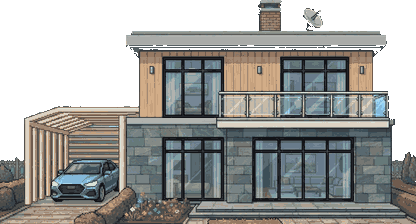
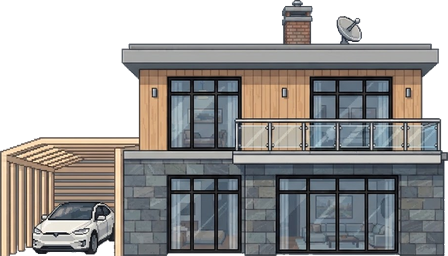
Дом: новый рисунок владельца (современный дом с навесом и машиной)
tools/import_house.py теперь режет art/_source/house_modern.jpg (тот же дом
на однородно-сером фоне) вместо старого house_rich.jpg со сценой сада. Фон
вычитается заливкой от всех четырёх краёв (как в import_move.py), а не
порогом синевы неба — на новом листе неба нет. Низ кадрируется по 95-му
перцентилю нижних кромок по столбцам, а не по самому глубокому пикселю: два
ближних столба навеса нарисованы чуть ниже общей линии земли, и обрезка по
ним оставляла бы машину «висящей» на пару пикселей. Уменьшение — через
import_art.py::shrink (премультиплированная альфа + LANCZOS + unsharp),
палитра больше не квантуется — рисунок и так чистый пиксель-арт, а
квантование смазывало стекло и тени. Вход пересчитан на правую (широкую)
секцию остекления первого этажа — главный вход по рисунку.

Результат (art/env/house_rich.png/.json) остаётся под старым именем: на него
ссылаются house_system.gd, docs/GDD.md и тесты, и переименование не даёт
ничего, кроме правки ссылок. HouseConfig.door_cell()=[11,0] из balance.json
не потребовал правки — вход на новом рисунке лёг в ту же клетку. Старый
house_rich.jpg остаётся в art/_source нетронутым.

Проверено: test_house.tscn (145/145), test_story.gd (421/421),
test_story_flow.tscn (64/64), test_wiring.tscn (9/9), --quit-after 30 —
без ошибок. Скриншот поверхности (дом целиком, навес и машина не обрезаны,
герой у входа, кнопка «Зайти» на месте) снят через xvfb-run + save_png.

Claude-Session: https://claude.ai/code/session_0136gV4z446Ram1BD5cWLTAs

diff --git a/tools/import_house.py b/tools/import_house.py
@@ -1,137 +1,196 @@
 #!/usr/bin/env python3
-"""Дом после смерти деда — из art/_source/house_rich.jpg в art/env/house_rich.png.
+"""Богатый дом бабки — из art/_source/house_modern.jpg в art/env/house_rich.png.
 
 Почему отдельный скрипт, а не gen_art: это НЕ плейсхолдер, а присланный
 владельцем рисунок. Нарезка скриптом, чтобы её можно было повторить, когда
 рисунок поправят, — так же, как с персонажами, тайлами и буром.
 
+Имя выхода (house_rich.png/.json) НЕ переименовано вслед за новым исходником:
+на него ссылаются scripts/house/house_system.gd, docs/GDD.md и тесты, и смена
+имени потребовала бы правки всех ссылок без всякой пользы — игра как считала
+"дом после смерти деда" одним файлом, так и считает, просто рисунок теперь
+другой. Старый исходник (house_rich.jpg, с небом и мостовой) остаётся в
+_source нетронутым — он был снят с той же картинки дома, но в декорации
+сада, и раньше именно по нему вырезался спрайт; см. git-историю скрипта, если
+понадобится вернуться.
+
+Новый лист — тот же дом на ОДНОРОДНОМ сером фоне (владелец прислал его именно
+так, под нарезку), поэтому фон вычитается не порогом синевы неба (как было),
+а универсальной заливкой от краёв — тем же приёмом, что в import_move.py и
+import_art.py::background_mask, только со своим цветом фона.
+
 Что делает:
-  1. срезает небо сверху и пустую мостовую снизу — в игре над домом своё небо,
-     а под ним земля, и чужие полосы этих двух цветов дают шов;
-  2. масштабирует так, чтобы дом встал по клеточной сетке (кратно 32);
-  3. квантует палитру: JPEG размывает пиксель-арт, и без квантования на
-     плоских стенах остаётся грязь из соседних оттенков;
+  1. вычитает фон заливкой от краёв (серое ВНУТРИ дома — алюминиевые рамы,
+     кровельный карниз, тарелка — остаётся: заливка не доходит до них, они
+     изолированы более тёмными рамами и стенами, см. background_mask);
+  2. обрезает по содержимому — рисунок уже кадрирован владельцем впритык, но
+     точную рамку считаем сами, а не гадаем координаты руками;
+  3. уменьшает LANCZOS'ом с премультиплированной альфой и возвращает резкость
+     unsharp'ом (import_art.py::shrink/_restore_bite) — так на стекле и
+     перилах не остаётся ни серой каймы от фона, ни размытия от масштаба;
+     палитру НЕ квантуем (в отличие от старой версии скрипта) — рисунок и без
+     того чистый пиксель-арт, квантование только смазало бы стекло и тени;
   4. считает, где у дома вход, и пишет это число рядом — движок ставит
      спрайт так, чтобы вход пришёлся ровно на клетку двери.
 """
-from pathlib import Path
 import json
-from PIL import Image
+import sys
+from pathlib import Path
+
 import numpy as np
+from PIL import Image
 
 ROOT = Path(__file__).resolve().parent.parent
-SRC = ROOT / "art/_source/house_rich.jpg"
+sys.path.insert(0, str(ROOT / "tools"))
+from import_art import shrink  # noqa: E402  премультиплированный LANCZOS + unsharp
+
+SRC = ROOT / "art/_source/house_modern.jpg"
 OUT = ROOT / "art/env/house_rich.png"
 META = ROOT / "art/env/house_rich.json"
 
 TILE = 32
-TARGET_CELLS = 13          # ширина спрайта в клетках (дом занимает клетки 0-14)
-# Докуда брать рисунок по высоте — по нижней кромке того, что нарисовано СБОКУ
-# и стоит ПЕРЕД домом: навес с машиной, крыльцо со ступенями, палисадник.
-# 0.759 — это строка 607 исходника (1024×800): последний ряд деревянного
-# бордюра клумбы и низ нижней ступени крыльца. Со строки 608 идёт уже
-# плоская мостовая, нарисованная сверху вниз, — её брать нельзя (см. ниже).
-# Прежние 0.68 (строка 544) резали по колёсам машины: вместе с мостовой
-# пропадали и крыльцо, и клумба, которые владелец просил вернуть.
-BOTTOM_FRACTION = 0.759
-PALETTE_COLORS = 48
+# Ширина спрайта в клетках. Дом по balance.json (house.x_range) занимает
+# клетки 0-14 — 15 клеток, 480 логических px, — а правым краем прижимается к
+# границе огорода (см. house_system.gd:_build_world_props). 14 клеток
+# (448 px) оставляют одну клетку травы слева от навеса — так дальний столб
+# карпорта не упирается ровно в границу мира; 15 клеток дом бы тоже не
+# перекрыл, но лишний метр газона левее делает сцену чуть просторнее.
+TARGET_CELLS = 14
+
+# Фон листа — однородно-серый (владелец прислал именно так). Цвет меряем по
+# самой картинке (край кадра — гарантированно фон), а не вписываем числом:
+# так скрипт переживёт лёгкую смену экспозиции при переприсылке рисунка.
+BG_TOL = 24  # евклидово расстояние в RGB; подобрано по образцу ниже
 
 
-def sky_mask(a: np.ndarray) -> np.ndarray:
-    """Небо — заметно более синее, чем красное. Порог мягкий: на JPEG градиент
-    неба «плывёт», и жёсткий порог рвёт его на полосы."""
-    return (a[:, :, 2].astype(int) - a[:, :, 0].astype(int)) > 15
+def _measure_bg(a: np.ndarray) -> np.ndarray:
+    """Средний цвет фона по кромке кадра (все четыре стороны — не только
+    верх, как для house_rich.jpg со своим небом: тут фон сплошной со всех
+    сторон)."""
+    edge = np.concatenate([
+        a[0, :, :], a[-1, :, :], a[:, 0, :], a[:, -1, :],
+    ]).astype(np.float64)
+    return edge.mean(axis=0)
+
+
+def background_mask(a: np.ndarray, bg: np.ndarray, tol: float) -> np.ndarray:
+    """True там, где фон. Заливка от ВСЕХ четырёх краёв (numpy BFS, без
+    Python-цикла по пикселям — лист 1024×800, пиксельный BFS на нём заметно
+    медленнее).
+
+    Обычным порогом резать нельзя: карниз крыши, тарелка и алюминиевые рамы
+    окон тоже серые и по тону близки к фону. Спасает связность — заливка идёт
+    только там, где серое тянется НЕПРЕРЫВНО от кромки кадра, а эти детали
+    со всех сторон обведены рамами/стенами куда темнее фона и остаются
+    отрезанными островками.
+    """
+    h, w, _ = a.shape
+    dist = np.sqrt(((a.astype(np.float64) - bg) ** 2).sum(axis=2))
+    bg_like = dist <= tol
+
+    seen = np.zeros((h, w), dtype=bool)
+    frontier_y = np.concatenate([np.zeros(w, dtype=int), np.full(w, h - 1, dtype=int),
+                                  np.arange(h), np.arange(h)])
+    frontier_x = np.concatenate([np.arange(w), np.arange(w),
+                                  np.zeros(h, dtype=int), np.full(h, w - 1, dtype=int)])
+    stack = list(zip(frontier_y.tolist(), frontier_x.tolist()))
+    mask = np.zeros((h, w), dtype=bool)
+    while stack:
+        y, x = stack.pop()
+        if seen[y, x]:
+            continue
+        seen[y, x] = True
+        if not bg_like[y, x]:
+            continue
+        mask[y, x] = True
+        if y > 0: stack.append((y - 1, x))
+        if y < h - 1: stack.append((y + 1, x))
+        if x > 0: stack.append((y, x - 1))
+        if x < w - 1: stack.append((y, x + 1))
+    return mask
+
+
+def cut(im: Image.Image, mask: np.ndarray) -> Image.Image:
+    """Весь лист в RGBA: альфа = не-фон. Обрезка по содержимому — отдельным
+    шагом (getbbox), тут координаты листа не двигаем."""
+    arr = np.asarray(im.convert("RGB"))
+    alpha = np.where(mask, 0, 255).astype(np.uint8)
+    return Image.fromarray(np.dstack([arr, alpha]), "RGBA")
+
+
+# Перспектива рисунка не строго фронтальная: два столба навеса, ближние к
+# зрителю, нарисованы на несколько px НИЖЕ, чем стена дома и колёса машины —
+# они физически ближе к «камере» и потому крупнее/ниже на кадре. Обрежь низ
+# по самому глубокому пикселю всего листа (эти столбы) — и между колёсами
+# машины (они мельче и до этой линии не достают) и низом спрайта останется
+# щель в несколько px, машина будет казаться висящей над землёй. 95-й
+# перцентиль нижних кромок по столбцам берёт линию земли ПО ОСНОВНОЙ массе
+# кадра (стена дома, большая часть машины, дальние столбы) и не тянется за
+# редкими ближними столбами (их пара, это единицы процентов ширины) — их
+# низ проще обрезать на несколько px, чем оставлять зазор под колёсами.
+GROUND_PERCENTILE = 95
+
+
+def _ground_bottom(alpha: np.ndarray, left: int, right: int, top: int) -> int:
+    bottoms = []
+    for x in range(left, right + 1):
+        col = alpha[top:, x]
+        ys = np.nonzero(col > 10)[0]
+        if len(ys):
+            bottoms.append(top + int(ys[-1]))
+    return int(round(float(np.percentile(np.array(bottoms), GROUND_PERCENTILE))))
+
+
+# Вход — правая (широкая) секция раздвижного остекления первого этажа: на
+# рисунке это ЯВНО более широкая из двух низких стеклянных дверей — левая
+# ведёт в гостиную поменьше, эта — главный вход. Найдено по чёрным рамам
+# окон первого этажа (самые тёмные столбцы кадра на высоте дверей): левая
+# секция 400-550 px (150 px), правая 621-870 px (249 px) в координатах
+# исходника — заметно шире, как и должен быть парадный вход. Число — доля от
+# ширины КАДРА ПОСЛЕ ОБРЕЗКИ (bbox содержимого), а не пиксели исходника:
+# рисунок перекадрируют — доля переживёт. Замер сделан руками по картинке
+# владельца (см. tools/import_house.py в истории коммитов для деталей) — как
+# и раньше, для одной присланной картинки это честнее автоэвристики.
+ENTRANCE_FRACTION = 0.752
 
 
 def main() -> None:
-    im = Image.open(SRC).convert("RGB")
+    src = Path(sys.argv[1]) if len(sys.argv) > 1 else SRC
+    im = Image.open(src).convert("RGB")
     a = np.asarray(im)
-    h, w, _ = a.shape
 
-    not_sky = ~sky_mask(a)
-    # Верх: первая строка, где появляется хоть что-то не небо (труба).
-    rows = not_sky.mean(axis=1)
-    top = next(y for y in range(h) if rows[y] > 0.02)
-    # Низ режем по линии земли САМОГО ДОМА, а не по краю картинки.
-    #
-    # Нижняя часть рисунка — мостовая, газон и забор, показанные сверху, в
-    # трёхчетвертной перспективе. Игра плоская, вид сбоку: в ней этот
-    # горизонтальный кусок земли встаёт вертикальной стеной над грядками и
-    # читается как забор высотой в пять клеток. Проверено на живой сборке —
-    # именно так и выглядело.
-    #
-    # Но режем ровно по границе двух проекций, а не выше: всё, что стоит
-    # ПЕРЕД домом и нарисовано сбоку (крыльцо, ступени, клумба, машина под
-    # навесом), остаётся в спрайте — копать под домом всё равно нельзя,
-    # так что этот передний план ничему не мешает.
-    bottom = int(h * BOTTOM_FRACTION)
-    # Бока: оставляем всю ширину — навес с машиной и заборы по краям это
-    # тот самый достаток, который по ГДД бабка тщательно скрывает.
-    left, right = 0, w - 1
+    bg = _measure_bg(a)
+    mask = background_mask(a, bg, BG_TOL)
+    full = cut(im, mask)
 
-    crop = im.crop((left, top, right + 1, bottom + 1))
+    box = full.getbbox()
+    if box is None:
+        sys.exit("после вычитания фона на листе ничего не осталось — проверь BG_TOL")
+    left, top, right, bottom = box
+    ground = _ground_bottom(np.asarray(full)[:, :, 3], left, right - 1, top)
+    crop = full.crop((left, top, right, ground + 1))
 
     out_w = TARGET_CELLS * TILE
     out_h = max(1, round(crop.height * out_w / crop.width))
-    # Высоту тоже сажаем на сетку: так низ дома ложится ровно на линию земли.
+    # Высоту сажаем на сетку — низ дома должен лечь ровно на линию земли, а не
+    # повиснуть с прозрачной каёмкой снизу.
     out_h = int(round(out_h / TILE)) * TILE
-    small = crop.resize((out_w, out_h), Image.LANCZOS)
 
-    # Квантование: JPEG превращает плоскую стену в облако близких оттенков, и
-    # при увеличении в игре это видно как грязь.
-    small = small.quantize(colors=PALETTE_COLORS, method=Image.MEDIANCUT).convert("RGB")
+    # Премультиплированный LANCZOS + unsharp (import_art.py::shrink): именно
+    # он не даёт серому фону просочиться в цвет краевых пикселей при
+    # уменьшении — обычный resize смешал бы альфу и цвет наивно, и по контуру
+    # остался бы серый ореол. Палитру не квантуем — colors=0 по умолчанию.
+    small = shrink(crop, (out_w, out_h))
+    small.save(OUT)
 
-    # Небо делаем прозрачным — своё небо у игры уже есть.
-    arr = np.asarray(small).copy()
-    alpha = np.where(sky_mask(arr), 0, 255).astype(np.uint8)
-    # Дырки внутри дома (окна цвета неба) закрывать нельзя: заливаем только
-    # прозрачность, связанную с верхней кромкой.
-    alpha = _flood_from_top(alpha)
-    rgba = np.dstack([arr, alpha])
-    Image.fromarray(rgba, "RGBA").save(OUT)
-
-    entrance_x = _entrance_x(arr, alpha)
+    entrance_x = int(round(out_w * ENTRANCE_FRACTION))
     META.write_text(json.dumps({
         "entrance_x": entrance_x,
         "width": out_w,
         "height": out_h,
         "_note": "entrance_x — точка спрайта, которая должна прийтись на клетку двери",
     }, ensure_ascii=False, indent="\t") + "\n", encoding="utf-8")
-    print(f"{OUT.name}: {out_w}×{out_h}, вход на x={entrance_x}")
-
-
-def _flood_from_top(alpha: np.ndarray) -> np.ndarray:
-    """Прозрачным делаем только небо, связанное с краями кадра. Окна того же
-    цвета внутри дома обязаны остаться непрозрачными, иначе сквозь дом видно
-    землю."""
-    h, w = alpha.shape
-    seen = np.zeros_like(alpha, dtype=bool)
-    stack = [(0, x) for x in range(w) if alpha[0, x] == 0]
-    stack += [(y, 0) for y in range(h) if alpha[y, 0] == 0]
-    stack += [(y, w - 1) for y in range(h) if alpha[y, w - 1] == 0]
-    while stack:
-        y, x = stack.pop()
-        if y < 0 or y >= h or x < 0 or x >= w or seen[y, x] or alpha[y, x] != 0:
-            continue
-        seen[y, x] = True
-        stack += [(y + 1, x), (y - 1, x), (y, x + 1), (y, x - 1)]
-    out = np.full_like(alpha, 255)
-    out[seen] = 0
-    return out
-
-
-# Вход — раздвижные стёкла первого этажа, доля от ширины кадра.
-#
-# Число проставлено руками, а не найдено автоматически, и вот почему: поиск
-# «самого тёмного места фасада» уверенно показывал на навес с машиной — там
-# тень глубже, чем в остеклении. Для одной картинки, присланной владельцем,
-# честнее одно число с объяснением, чем эвристика, которая ошибается и молчит
-# об этом. Доля, а не пиксели: рисунок перережут — число переживёт.
-ENTRANCE_FRACTION = 0.715
-
-
-def _entrance_x(arr: np.ndarray, alpha: np.ndarray) -> int:
-    return int(round(alpha.shape[1] * ENTRANCE_FRACTION))
+    print(f"{OUT.name}: {out_w}×{out_h}, вход на x={entrance_x} (источник: {src.name})")
 
 
 if __name__ == "__main__":
